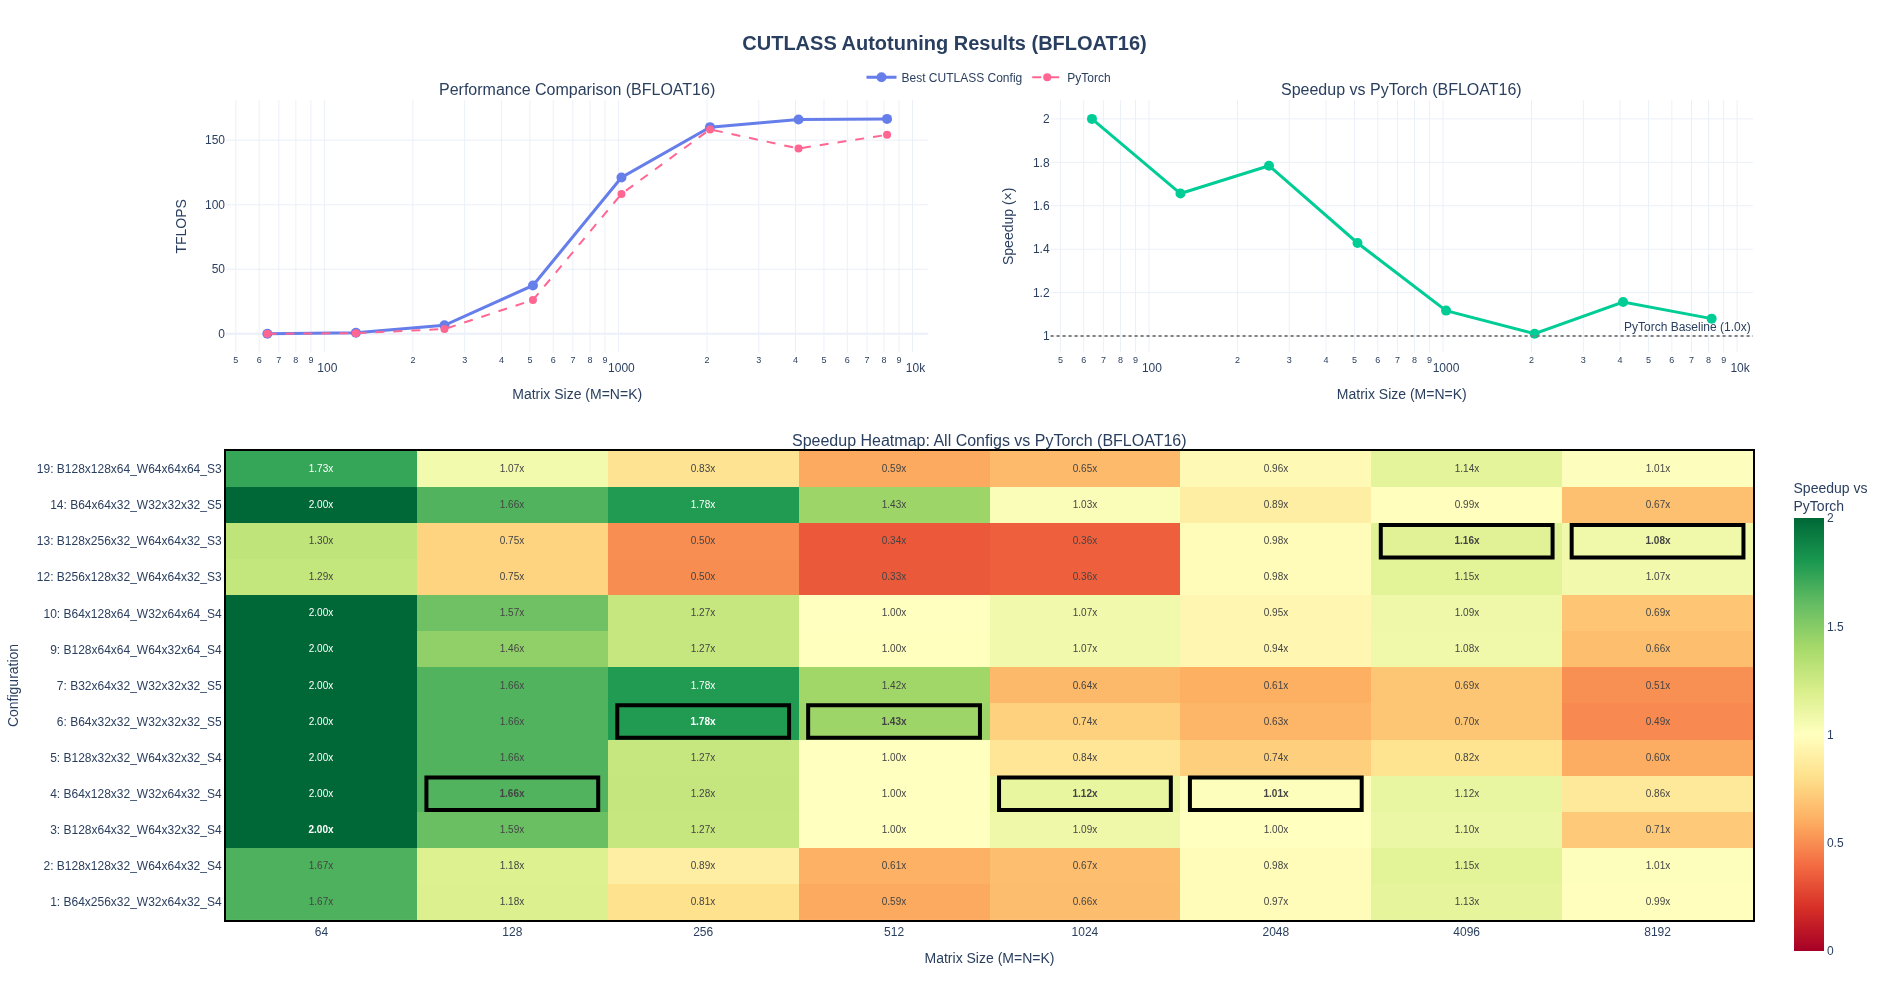
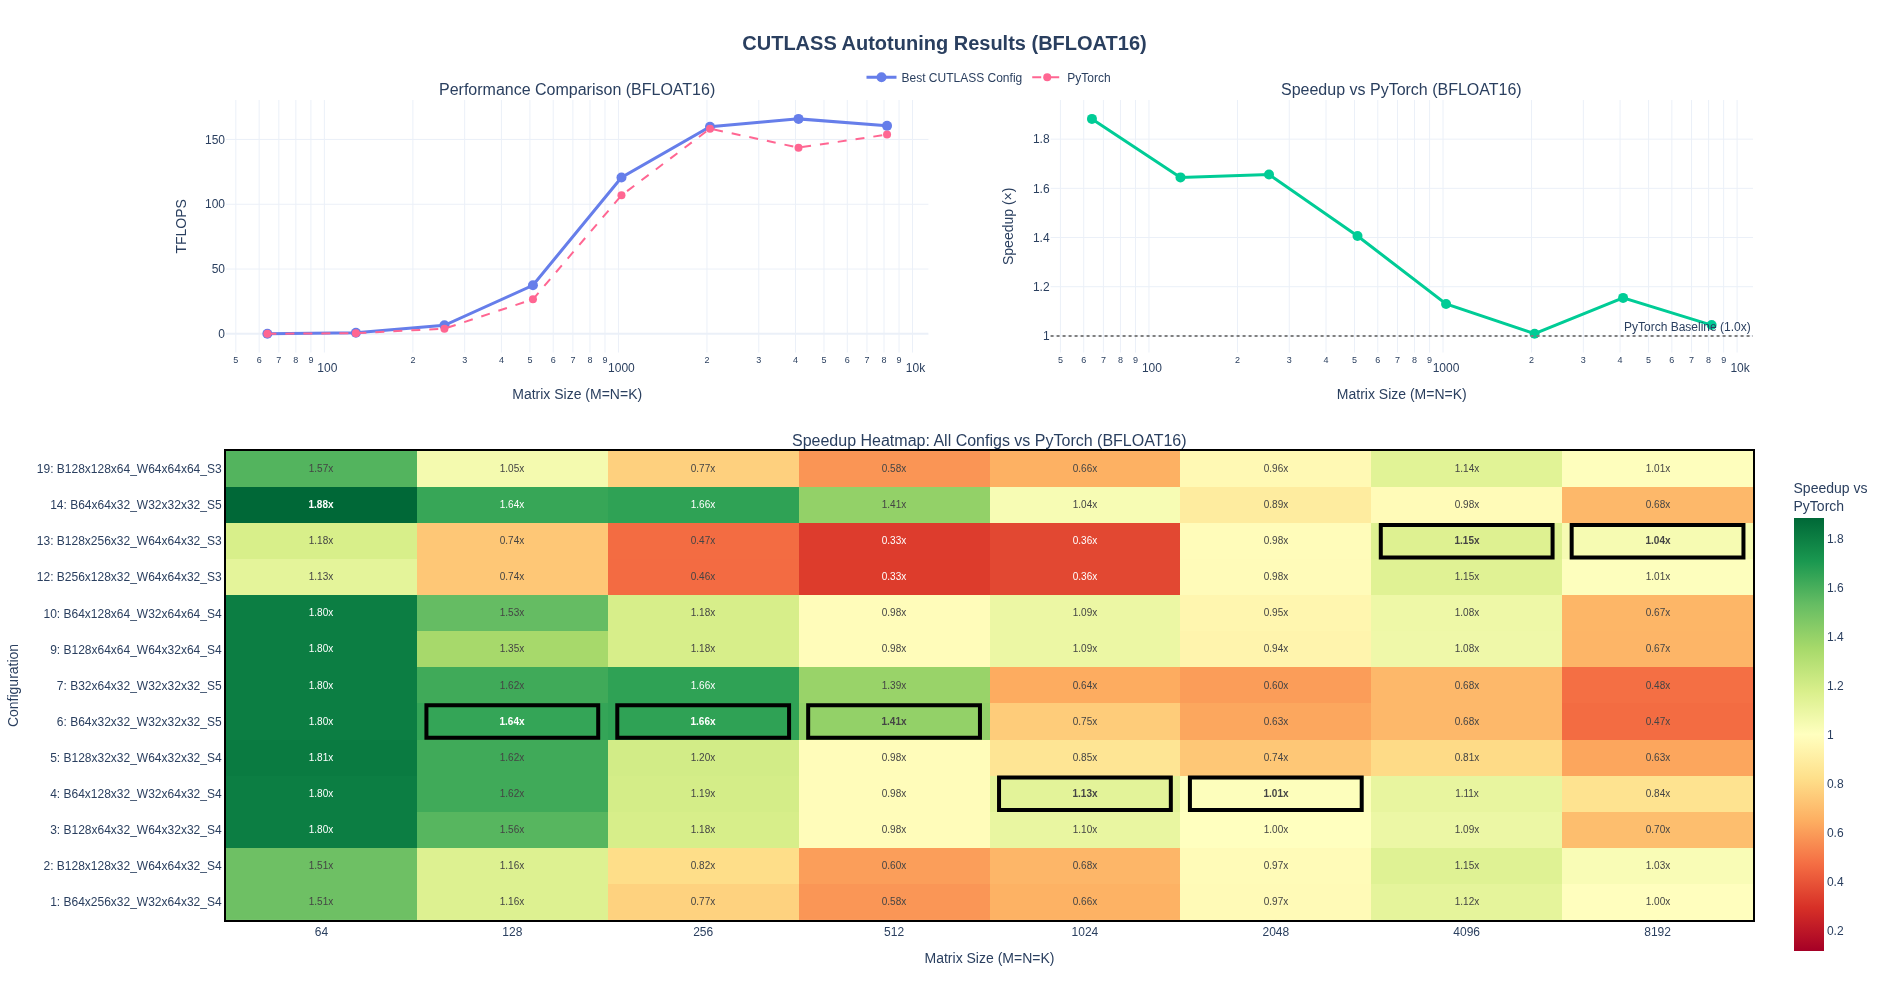
Fixed typos in the blog post and updated autotuning results

diff --git a/_posts/2025-10-01-learn-cutlass-the-hard-way.md b/_posts/2025-10-01-learn-cutlass-the-hard-way.md
@@ -1,8 +1,8 @@
 ---
-title: "Learn CUTLASS THE HARD WAY!"
+title: "Learn CUTLASS the hard way!"
 description: >-
-  Interactive walkthrough of optimization techniques for GEMMs from a naive fp32 kernel to Cutlass bf16 fully optimized kernel
-date: 2025-10-01
+  Walkthrough of optimization techniques for GEMMs from a naive fp32 kernel to CUTLASS bf16 kernel
+date: 2025-11-01
 categories: [Blog]
 tags: [Triton, CUDA, GPU, GEMM, Performance]
 pin: true
@@ -10,17 +10,22 @@ math: true
 author: ks
 ---
 
-Matrix multiplication (GEMM - General Matrix Multiply) is a fundamental operations in deep learning. Understanding how to optimize GEMM kernels on GPUs provides good insights into GPU architecture, compute and memory hierarchy.
+If one is remotely interested in CUDA or Triton programming, they have likely come across [this gemm of a post](https://siboehm.com/articles/22/CUDA-MMM) -- pun intended -- by Simon Boehm. There was [another amazing post](https://www.aleksagordic.com/blog/matmul) on GPU architecture from Aleksa Gordić more recently, which I encountered while writing this blog post. 
 
-If the reader is remotely interested in CUDA or Triton programming, they have likely come across [this gemm of a post](https://siboehm.com/articles/22/CUDA-MMM) -- pun intended -- by Simon Boehm. There was [another amazing post](https://www.aleksagordic.com/blog/matmul) on GPU architecture from Aleksa Gordić. This one is more recent and I encountered it while writing this one. 
+I have been curious about learning the details of GEMMs beyond the basics i.e. the typical shared memory cache kernel from [PMPP book](https://www.amazon.com/Programming-Massively-Parallel-Processors-Hands/dp/0323912311). There are so many more concepts to learn to understand modern GEMMs and all of the info is distributed across blog posts, conference talks, etc. In this post, I'll build on blog posts I mentioned and walk through several of these optimization stages but also go into some detail on tensorcores, wmma, swizzling, pipelining etc. 
 
-In this post, we'll build on these and walk through several optimization stages, each with some interactive visualizations to help understand the concepts.
+My goal here was to understand a basic CUTLASS kernel. The problem with looking at something like CUTLASS without knowing all the basics is you will understand the code but not what it is doing under the hood. So, my goal was to build upto a basic cutlass kernel and try to beat PyTorch matmul on my RTX 4090. The whole process and the blog post took me about a month.
 
-## Code Repository and Structure
+## Prologue
+
+### Code
 
 [Full implementation of all kernels](https://github.com/gpusgobrr/explore-gemm)
 
-In the following sections, we will go over several steps in optimizing GEMM kernel, each time discussing a new concept. In the later sections, we will look at fp16/bf16 matmul kernels and tensor cores. In the end, we'll look into cutlass to show how it maps APIs to the GPU menory hierarchy. 
+In the following sections, we will go over several steps in optimizing GEMM kernel, each time discussing a new concept. In the later sections, we will look at fp16/bf16 matmul kernels and tensor cores. In the end, we'll look into cutlass to show how it maps APIs to the GPU memory hierarchy. 
+
+> I used Claude Code to create some javascript visualizations, which I hope readers will find useful. Claude Code was also great at writing some of the python scripts to do plotly graphs for performance benchmarking!
+{: .prompt-info}
 
 ## GEMM Basics
 
@@ -100,7 +105,7 @@ All benchmarks in this post were run on an **NVIDIA GeForce RTX 4090** 🚀. Bel
 
 ### Concept
 
-The simplest approach to calculate GEMM assign each thread to compute one output element.
+The simplest approach to calculate GEMM assigns each thread to compute one output element.
 
 > **What does the memory access pattern look like in this naive case?**
 >
@@ -111,7 +116,7 @@ The simplest approach to calculate GEMM assign each thread to compute one output
 > 4. Writes one element to $C$
 {: .prompt-tip}
 
-Let's look an interactive visualization of it below
+Let's look at an interactive visualization of it below
 
 <div id="naive-viz"></div>
 
@@ -293,7 +298,7 @@ Thread 63 ; Warp 1: Multiplying A[31][0] * B[0][1] = C[31][1]
 
 Now that we have general hardware fundamentals, we can see that the naive kernel's memory access pattern is inefficient. For each thread in a warp, it is accessing `A[k][0]` values where k is the thread id in a warp. When threads in a warp access scattered memory locations, each access requires a separate memory transaction. It is totally solvable by memory coalescing such that we restructure the thread-to-output mapping so threads in the same warp access consecutive memory locations, enabling the hardware to combine multiple accesses into a single transaction.
 
-Turns out the only change we need is swap % and / across row and col calculations for C.
+Turns out the only change we need is to swap % and / across row and col calculations for C.
 
 ```c
     // Map 1D thread ID to 2D output position for coalesced memory access
@@ -402,7 +407,7 @@ We can see that performance improved but still way slower than the pytorch versi
 
 ### Concept
 
-Before diving into shared memory optimization, let's understand the RTX 4090's memory hierarchy and why shared memory is so critical for performance. Shared memory provides significant **bandwidth advantage** compared to global memory, since it on chip. As a result, latency of loads/stores are at least one order of magnitude better compared to global memory. I could not find any public numbers on the differences though.
+Before diving into shared memory optimization, let's understand the RTX 4090's memory hierarchy and why shared memory is so critical for performance. Shared memory provides significant **bandwidth advantage** compared to global memory, since it is on-chip. As a result, latency of loads/stores are at least one order of magnitude better compared to global memory. I could not find any public numbers on the differences though.
 
 {: .prompt-warning}
 > Even with coalesced access, both the naive and coalesced kernels repeatedly read the same data from global memory:
@@ -556,7 +561,7 @@ Running the shared memory kernel for M = N = K = 4096:
 > - **9.5× faster than naive** (0.64 → 6.10 TFLOPS)
 > - Still only **7.8% of PyTorch's performance**, indicating more optimization needed
 >
-> **Key Insight:**d
+> **Key Insight:**
 > - Shared memory caching provides modest improvement (~24%) over just coalescing
 > - The relatively small gain suggests we're not yet effectively hiding memory latency
 {: .prompt-info}
@@ -633,7 +638,7 @@ for (int i = 0; i < deviceCount; ++i) {
 
 ### Why Occupancy Matters
 
-GPUs hide memory latency through **massive parallelism**. When one warp waits for memory, the SM immediately switches to execute another warp. Occupancy does not enable performance directly but primariy through latency hiding. Higher occupancy effectively means more warps available for compute and we can hide latency more effectively. If occupancy is low, hardware sits idle waiting for data. However, **occupancy is not everything**. A kernel with 100% occupancy but poor memory access patterns can still perform poorly since that could lead to lower register/shared memory per thread. So, it is imporatant to keep into account other factors apart from just optimizing for occupancy. 
+GPUs hide memory latency through **massive parallelism**. When one warp waits for memory, the SM immediately switches to execute another warp. Occupancy does not enable performance directly but primarily through latency hiding. Higher occupancy effectively means more warps available for compute and we can hide latency more effectively. If occupancy is low, hardware sits idle waiting for data. However, **occupancy is not everything**. A kernel with 100% occupancy but poor memory access patterns can still perform poorly since that could lead to lower register/shared memory per thread. So, it is important to take into account other factors apart from just optimizing for occupancy. 
 
 #### Key Considerations
 
@@ -1078,7 +1083,7 @@ by putting #pragma unroll directive right before the loop. The good thing about 
 void sgemm_blocktiling_2d(const torch::Tensor &matrix_a, const torch::Tensor &matrix_b,
                           torch::Tensor &output_matrix, float alpha, float beta)
 {
-    // ... same as most prevoius kernelz
+    // ... same as previous kernels
     constexpr int BM = 64;
     constexpr int BN = 64;
     constexpr int BK = 8;
@@ -2558,7 +2563,19 @@ struct GetConfig
 };
 ```
 
+I evaluated 20 different CUTLASS configurations across various tiles sizes to identify optimal shapes for each problem size. Optimal shapes and configuration below:
+
+
 ![Autotuning Results](/assets/explore_gemms_autotuning_results.png)
+
+
+> **Small Matrices (64-512)**: Autotuning discovered configurations that achieve up to **2.0× speedup compared to PyTorch** with larger thread blocks (128×64×32) and 4-5 pipeline stages. Seems like higher pipeline stages help with hiding latency really well
+> **Medium to Large Matrices (1024-2048)**: Performance close to pytorch with speedups ranging up to **1.09x**
+> **Larger Matrices (4096-8192)**: Much better performance with upto 15% speedup!
+{: .prompt-info}
+
+## Epilogue
+
 
 
 
